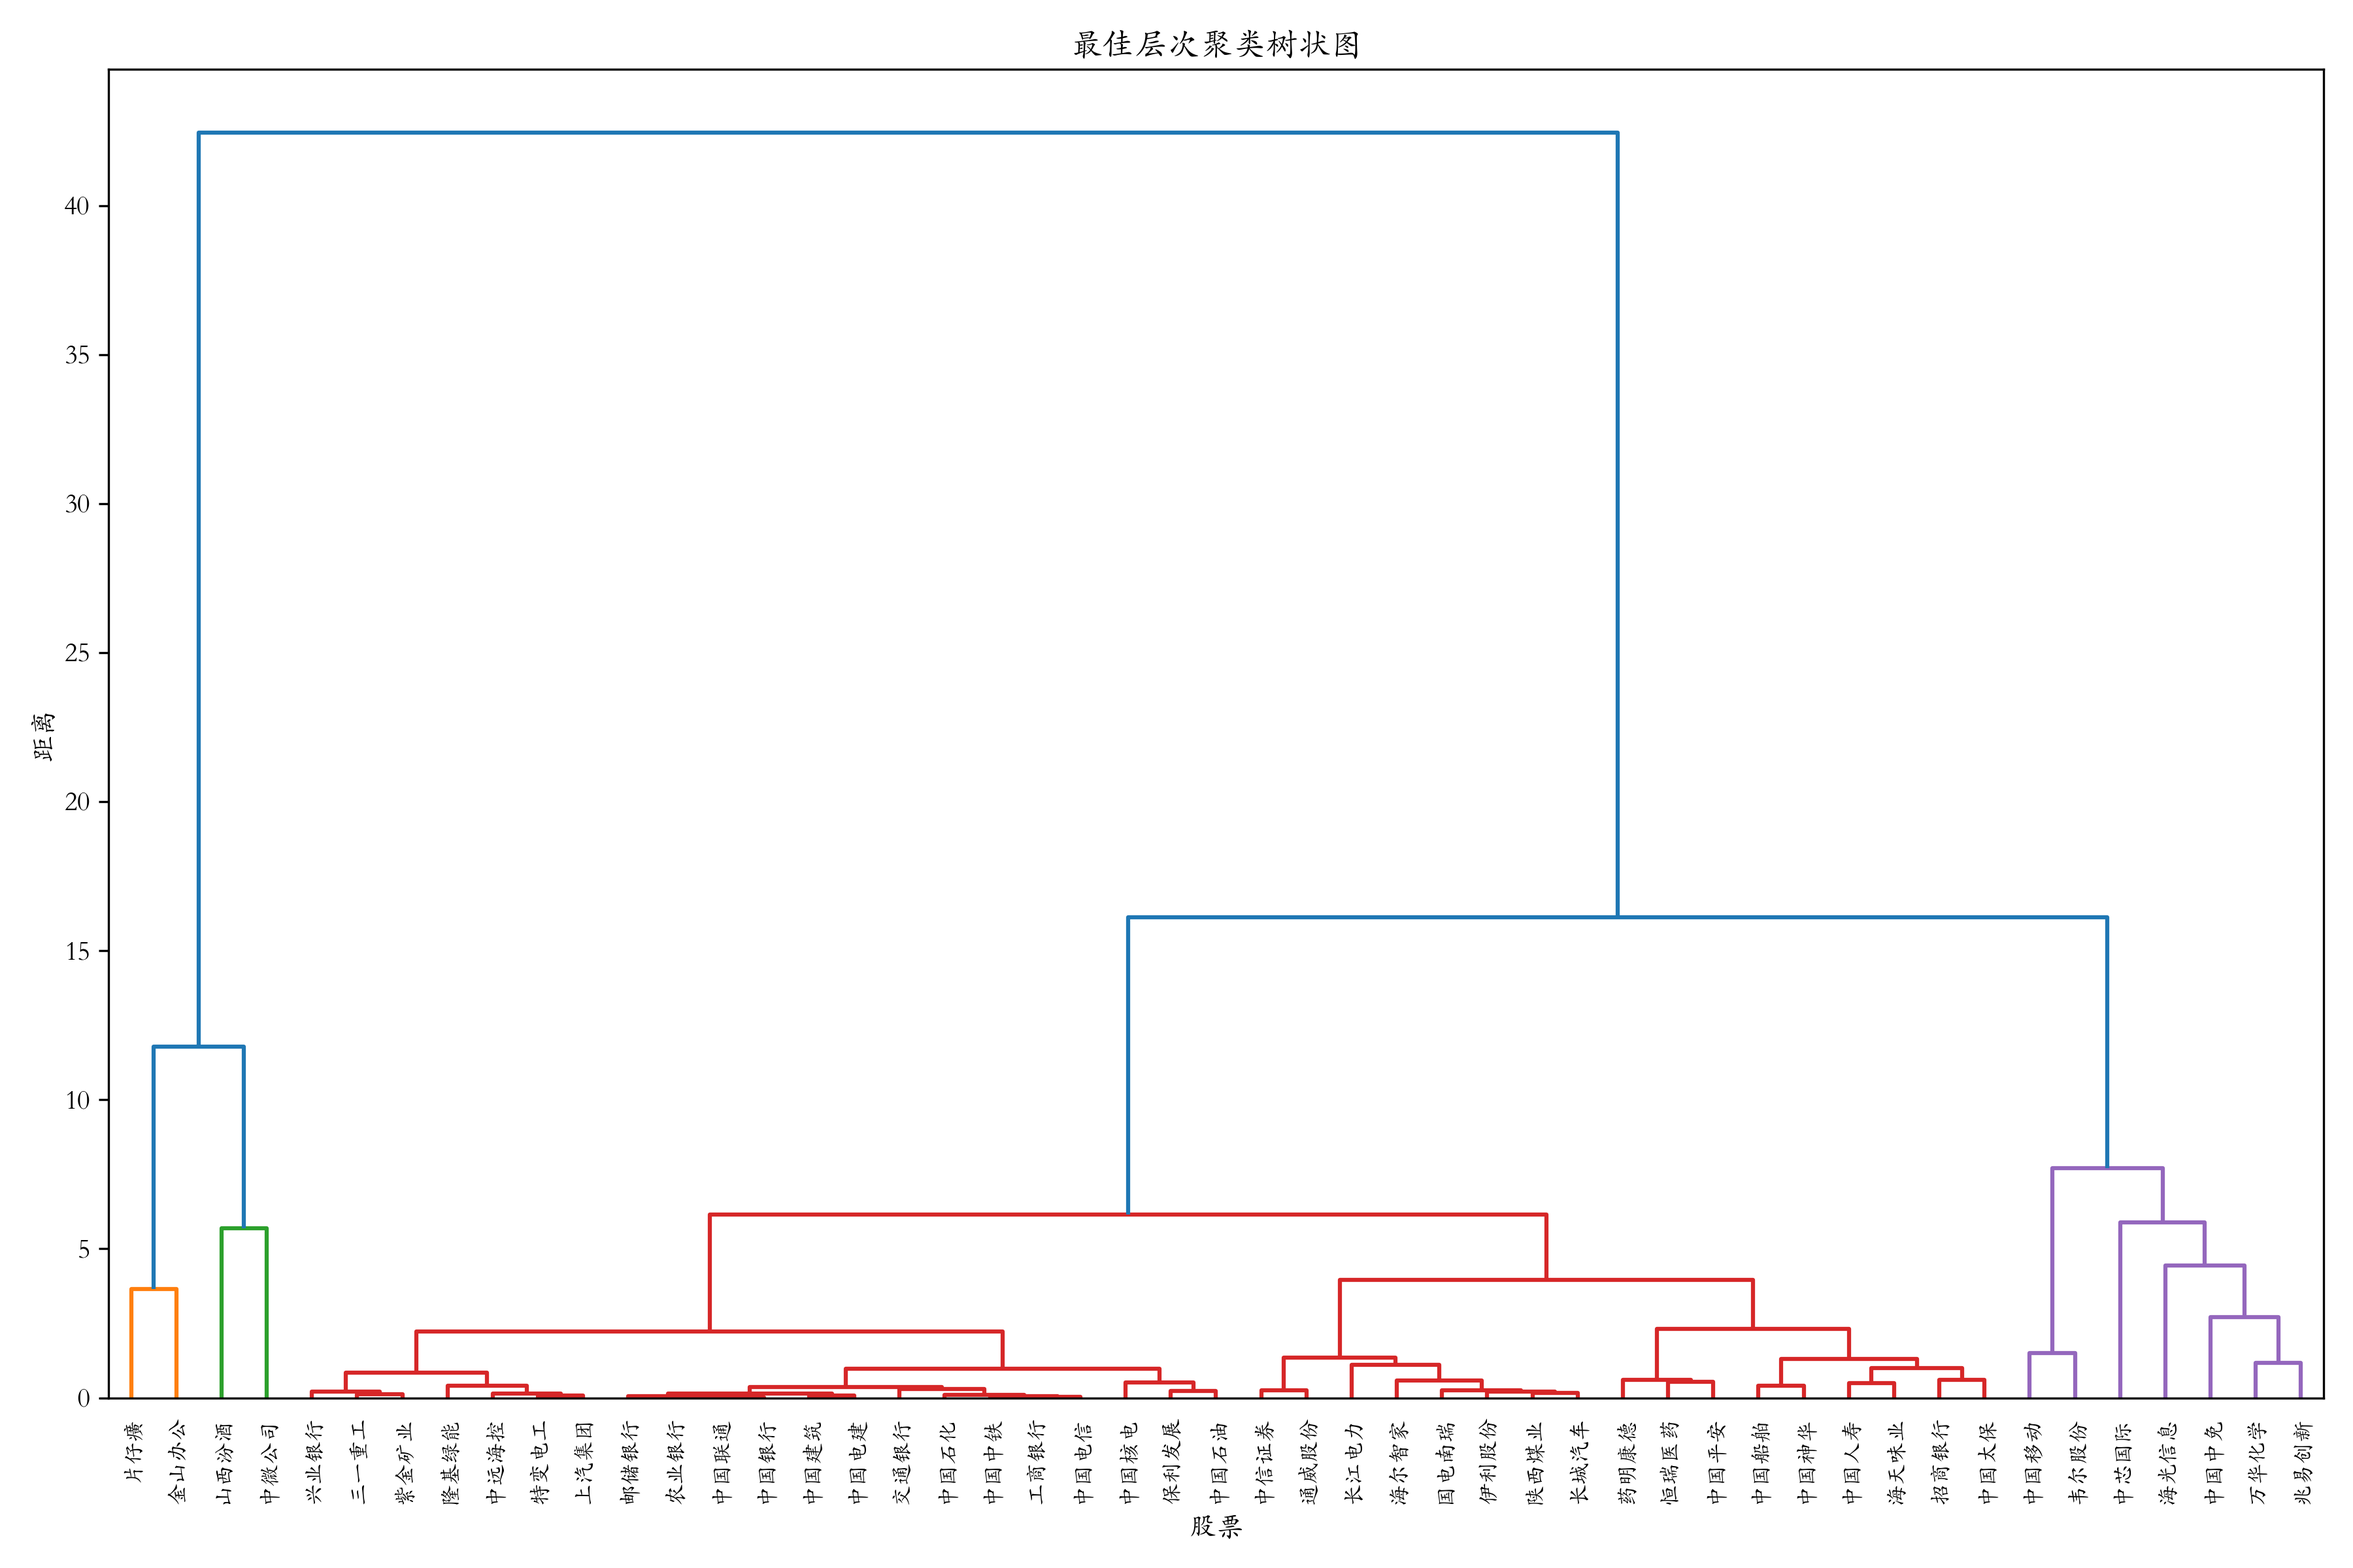
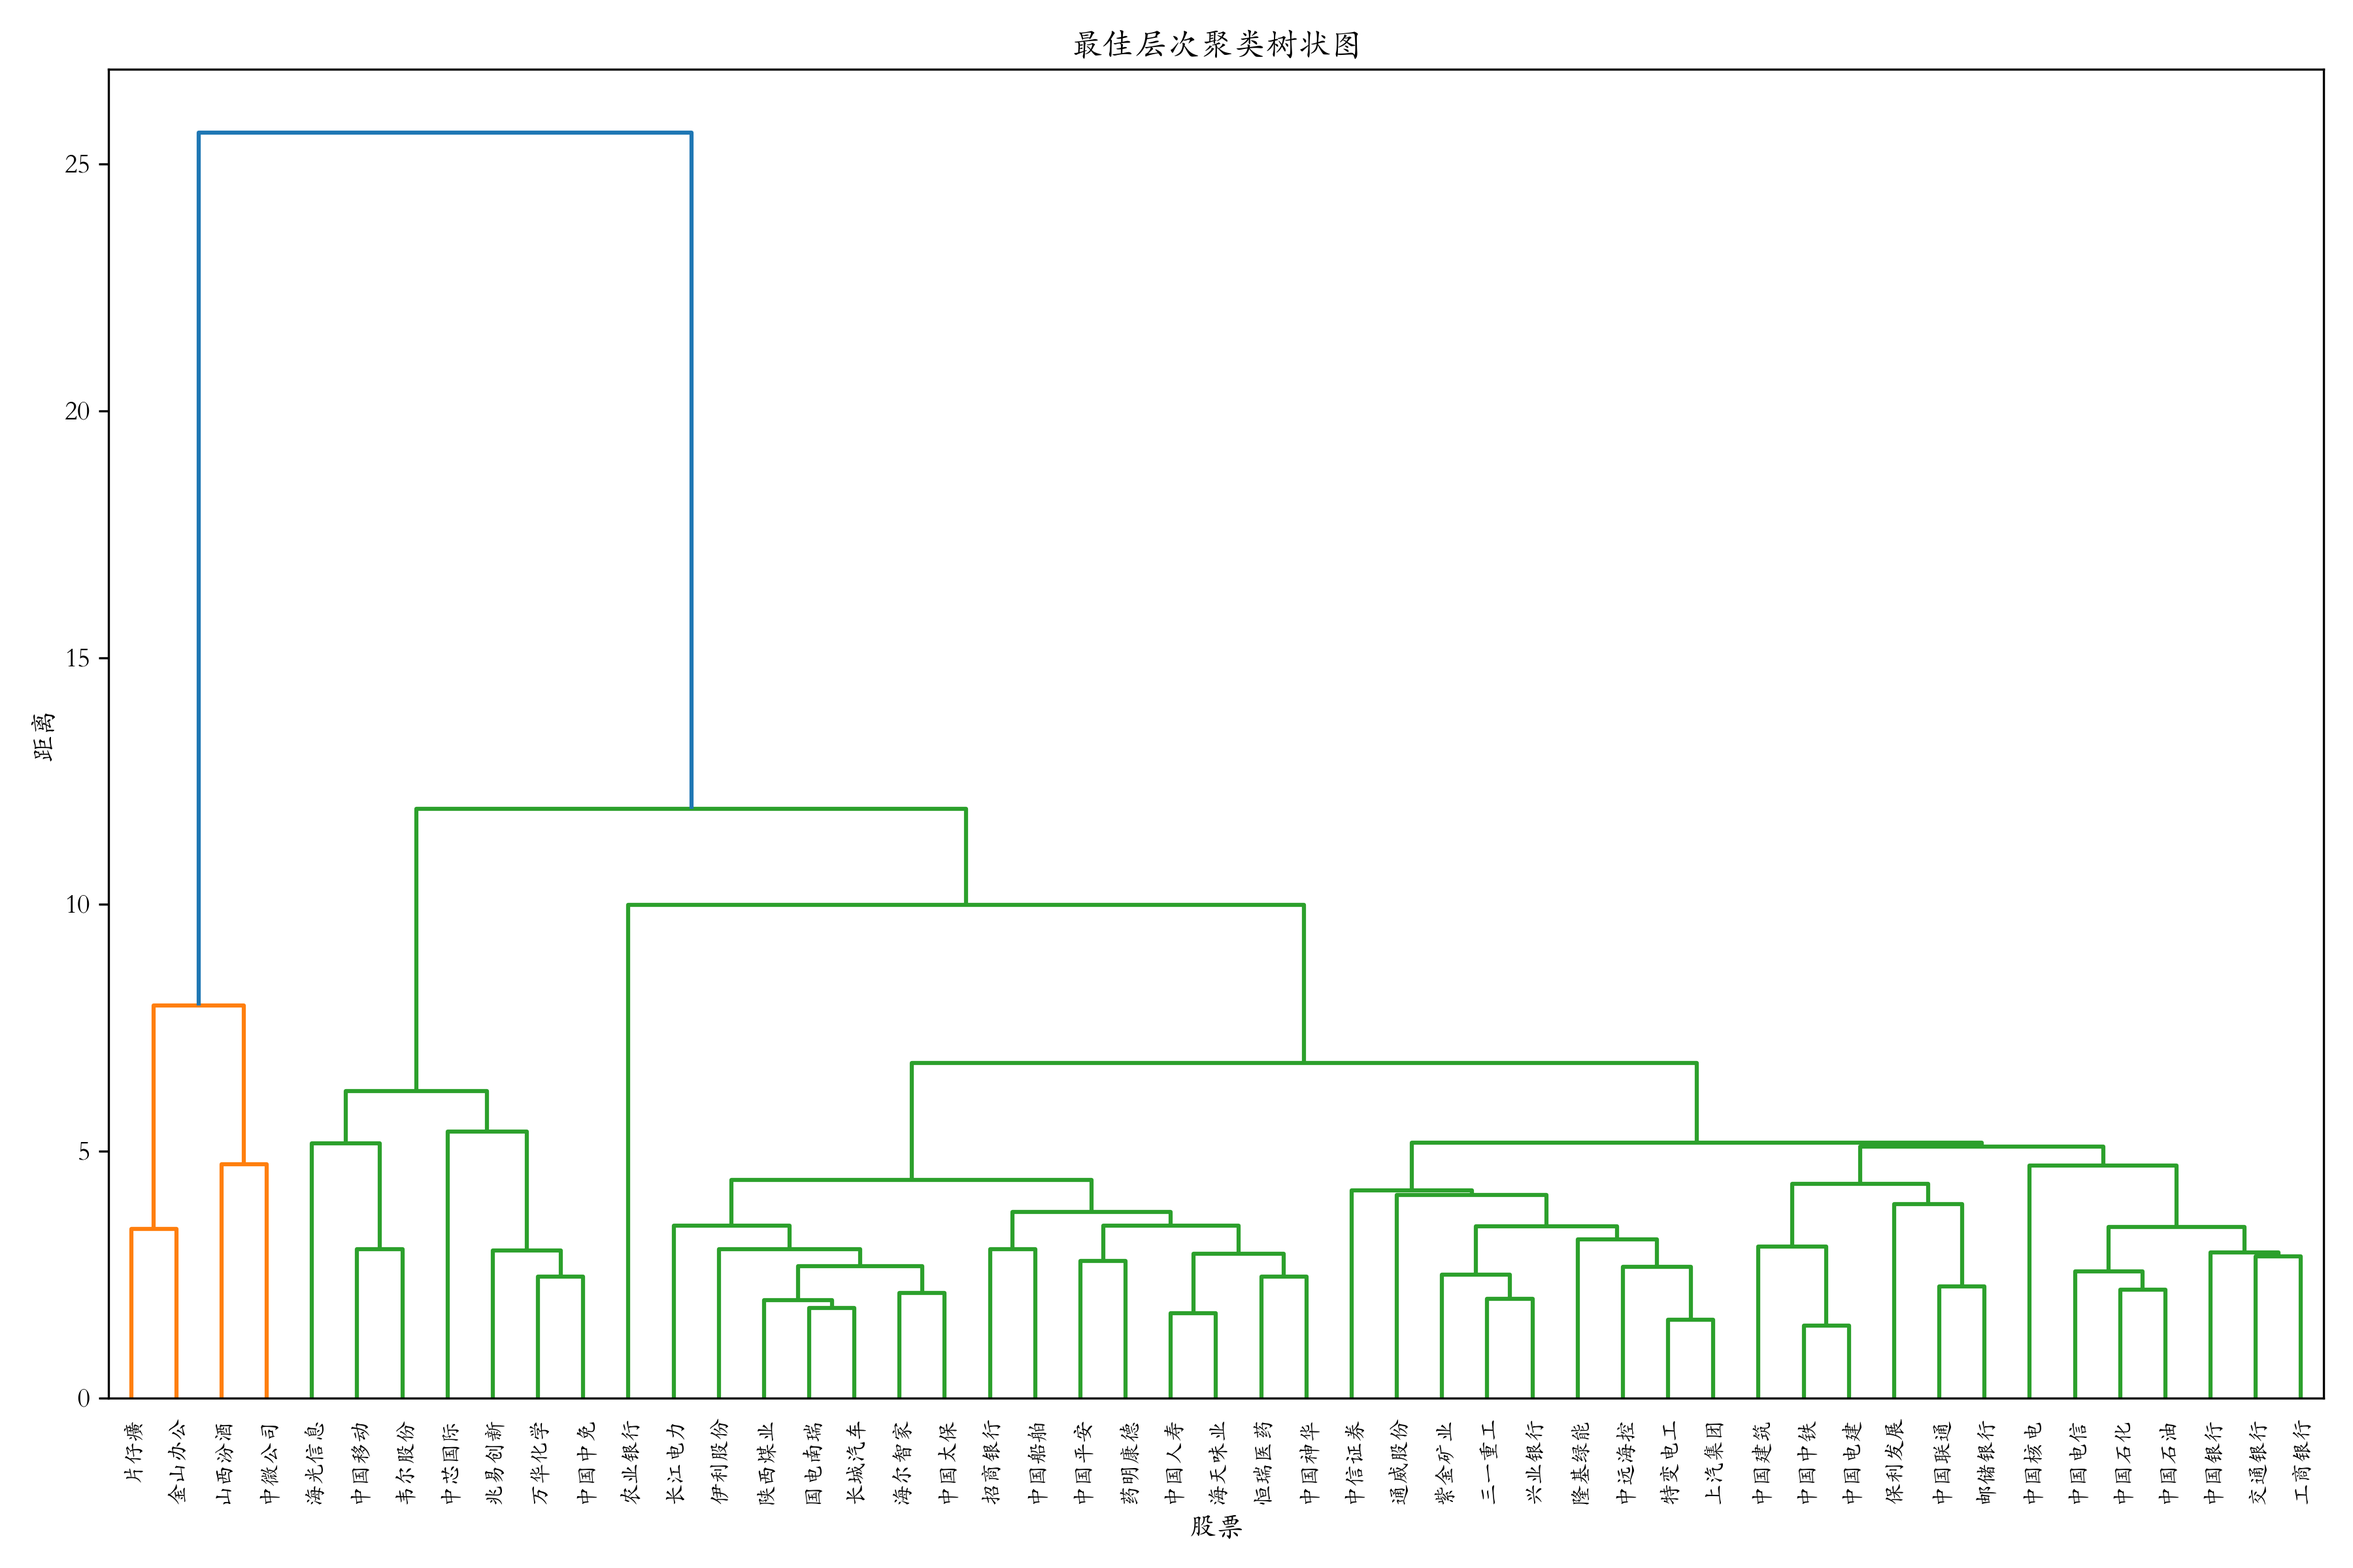
Experimenting with different clustering parameters.

diff --git a/master/best_weight_clustering.py b/master/best_weight_clustering.py
@@ -33,8 +33,8 @@ def evaluate_clustering(dtw_matrix, clusters):
     return silhouette_score(dtw_matrix, clusters, metric='precomputed')
 
 # Initialize
-weights = np.arange(0.0, 1.05, 0.05).tolist()
-distance_threshold = 10
+weights = np.arange(0.05, 0.8, 0.02).tolist() # Hyperparameter
+distance_threshold = 12 # Hyperparameter
 best_score = -1
 best_weights = None
 best_clusters = None

diff --git a/master/cluster_plot.py b/master/cluster_plot.py
@@ -4,7 +4,7 @@ from std_setup import *
 plot_setup()
 data_open, data_close, data_max, data_min, data_num, mapping_dict = load_data()
 
-n_clusters = 4
+n_clusters = 2
 clusters = pd.read_csv(f'./results/cluster/cluster_results.csv')
 
 # Plot by clusters

diff --git a/README.md b/README.md
@@ -84,6 +84,18 @@ Realize the DTW algorithm, and apply it to measure the similarity between raw da
 ### 'best_weight_clustering.py'
 Use the grid point method to search for the optimal weight distribution of each DTW matrix under the condition of applying the contour coefficient evaluation results.
 
+After our experiment, the recommended weight allocation and distance thresholds are as follows:
+
++ Weights
+  + (0.5, 0.2, 0.2, 0.1)
+  + (0.5, 0.1, 0.3, 0.1)
++ Distance-threshold
+  + 8
+  + 10
+  + 12
+
+The above $ 2 \times 3 = 6 $ combinations can show a good classification effect.
+
 You can also apply your own weight allocation method with these two individual clustering programs.
 
 > Notes: Before using, copy these two under the `\extras` folder to the `\master` directory.
